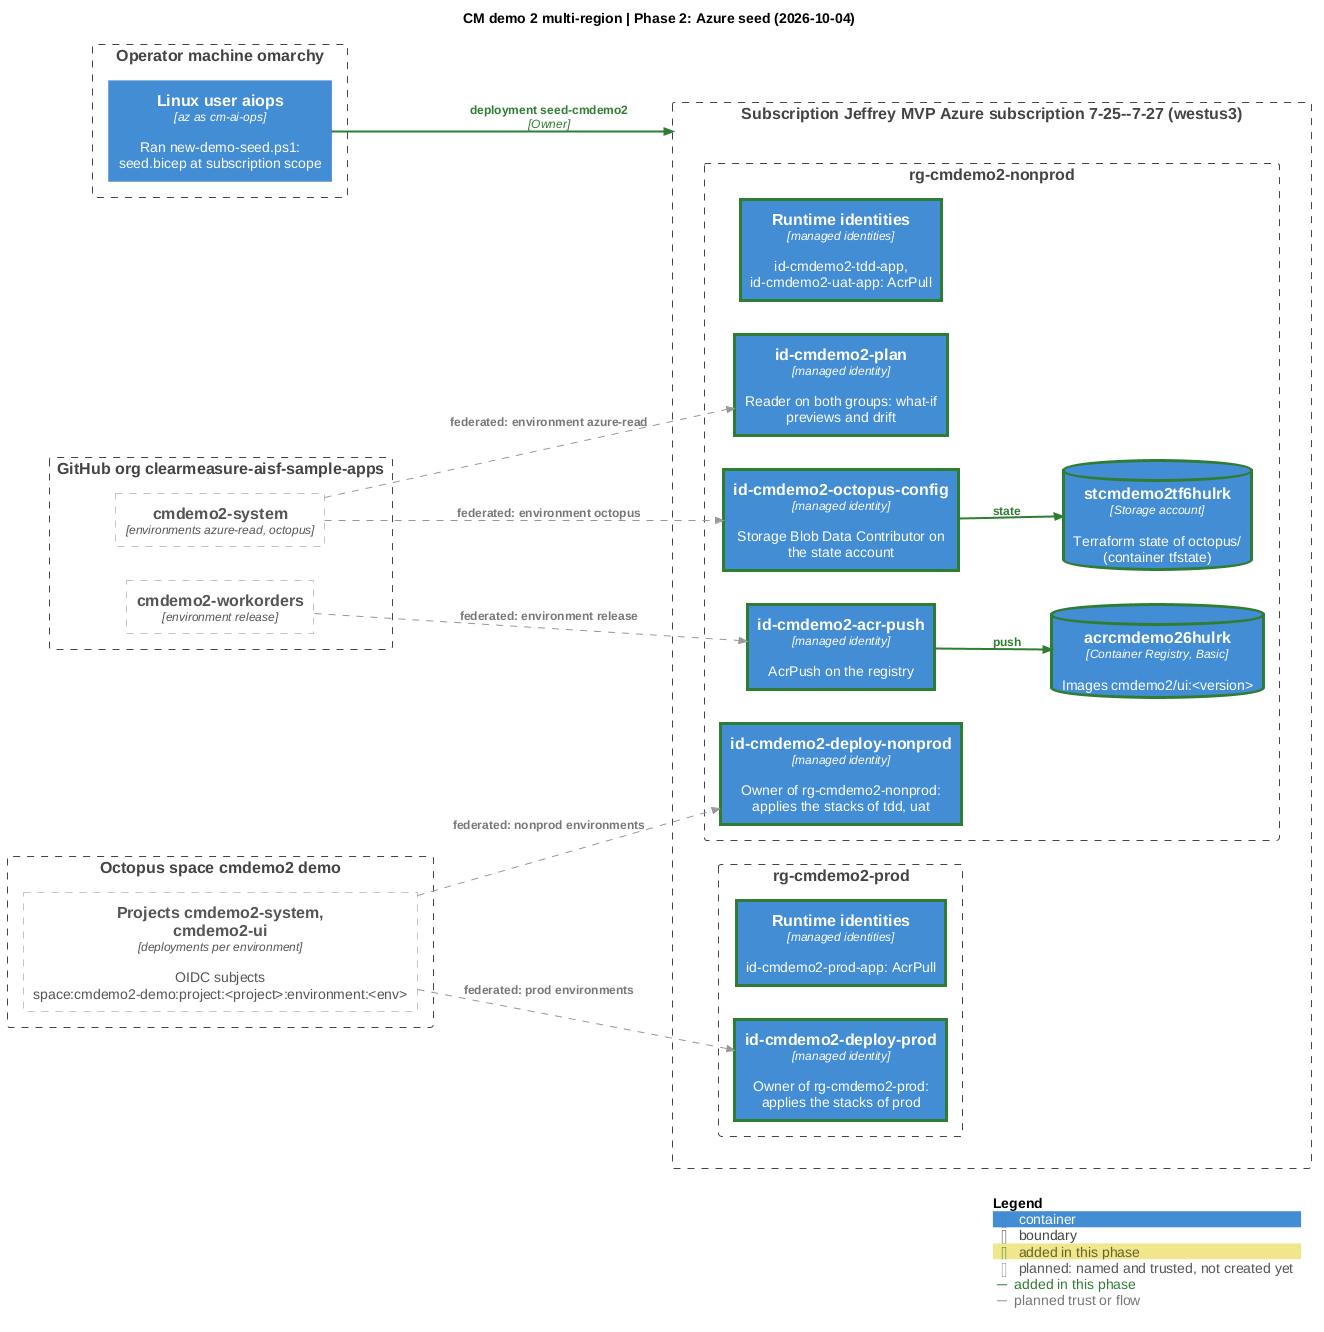
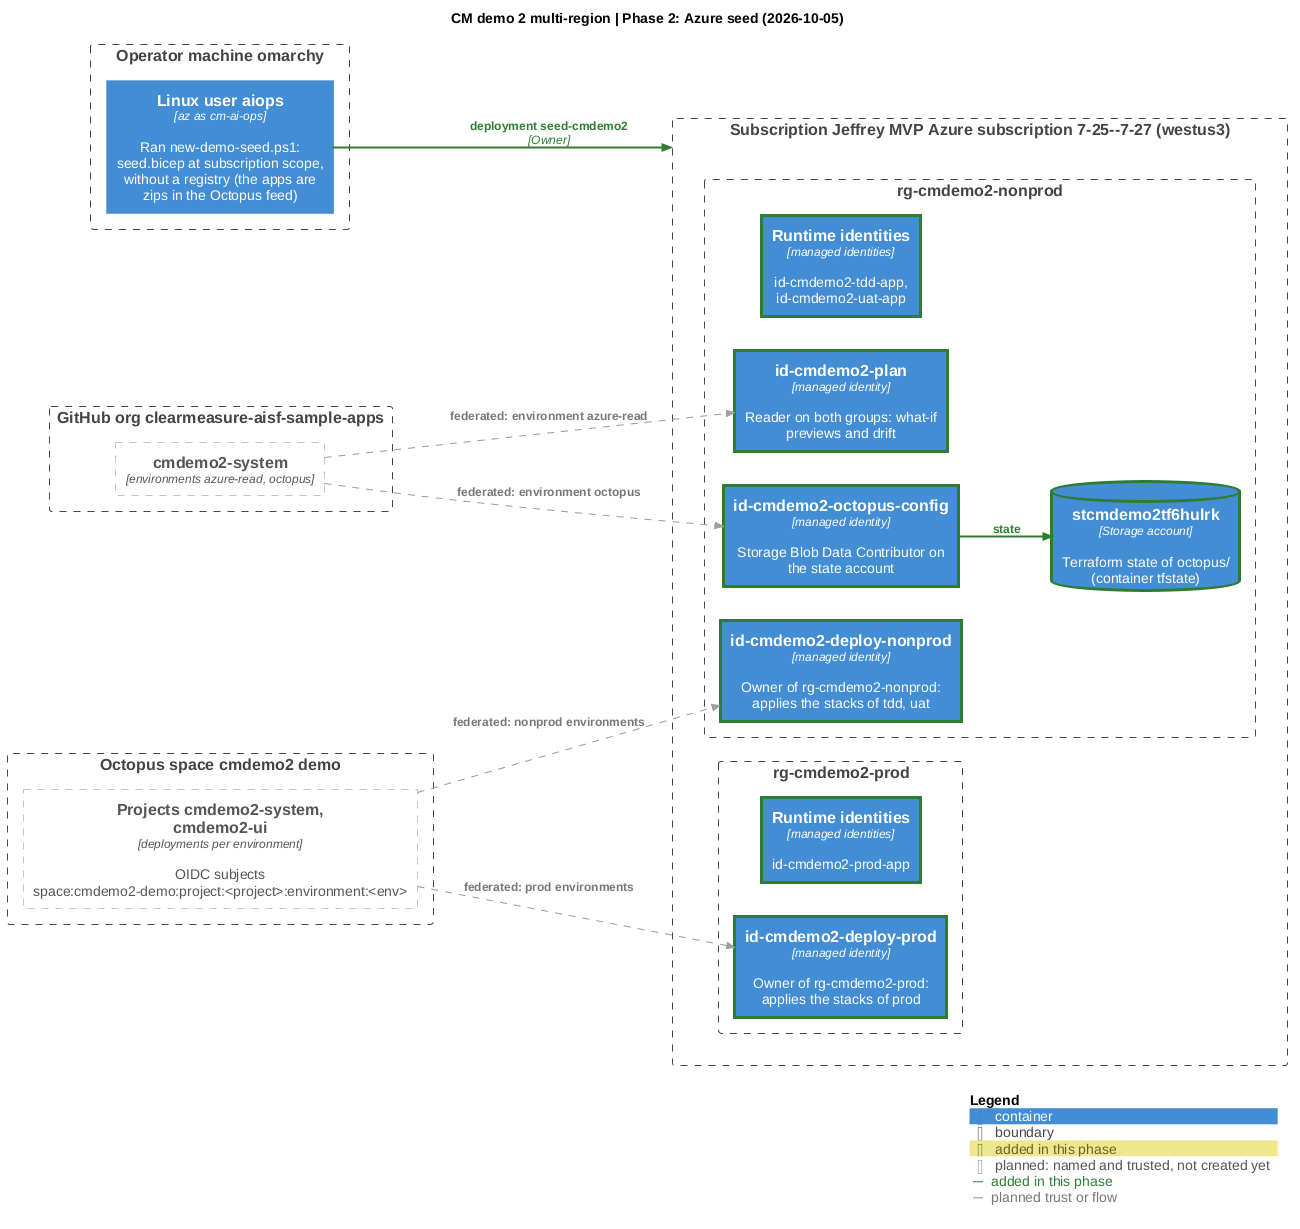
Architecture diagrams: phase 02 (#29)
Transitional architecture after phase 02 of the demo-environment skill (docs/architecture/). Documentation only: the system workflow ignores docs/.

diff --git a/docs/architecture/README.md b/docs/architecture/README.md
@@ -16,9 +16,9 @@ Source: [00-operator-identity.puml](00-operator-identity.puml)
 
 Source: [01-octopus-foothold.puml](01-octopus-foothold.puml)
 
-## Phase 2: Azure seed (2026-10-04)
+## Phase 2: Azure seed (2026-10-05)
 
-![Phase 2: Azure seed (2026-10-04)](02-azure-seed.png)
+![Phase 2: Azure seed (2026-10-05)](02-azure-seed.png)
 
 Source: [02-azure-seed.puml](02-azure-seed.puml)
 
